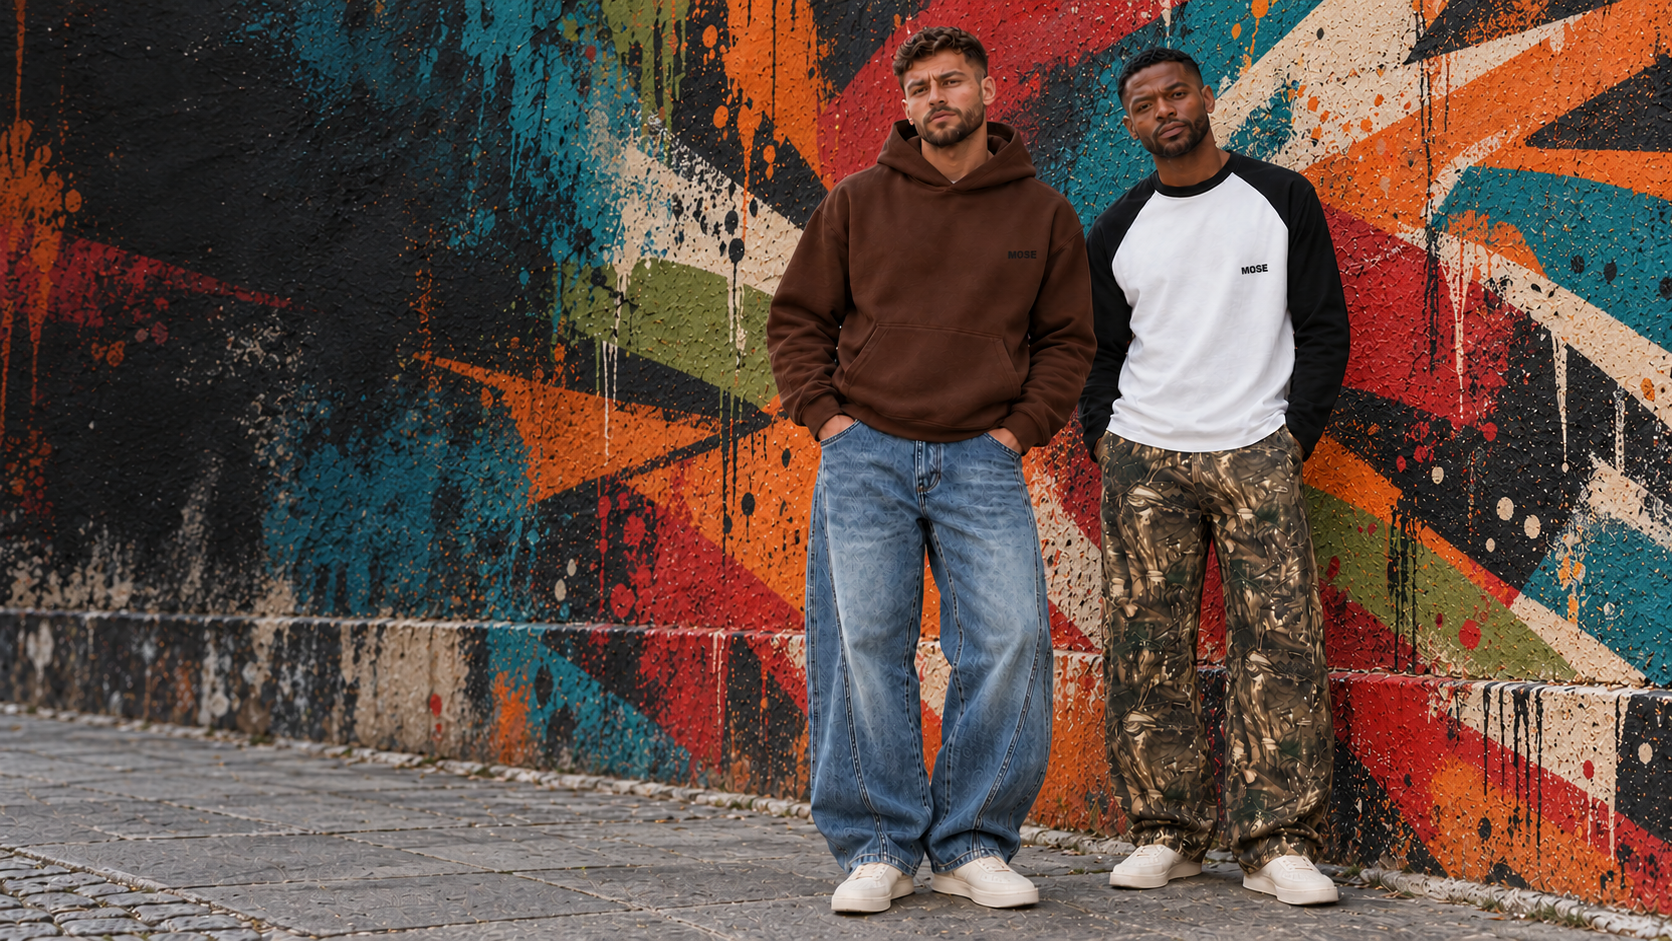
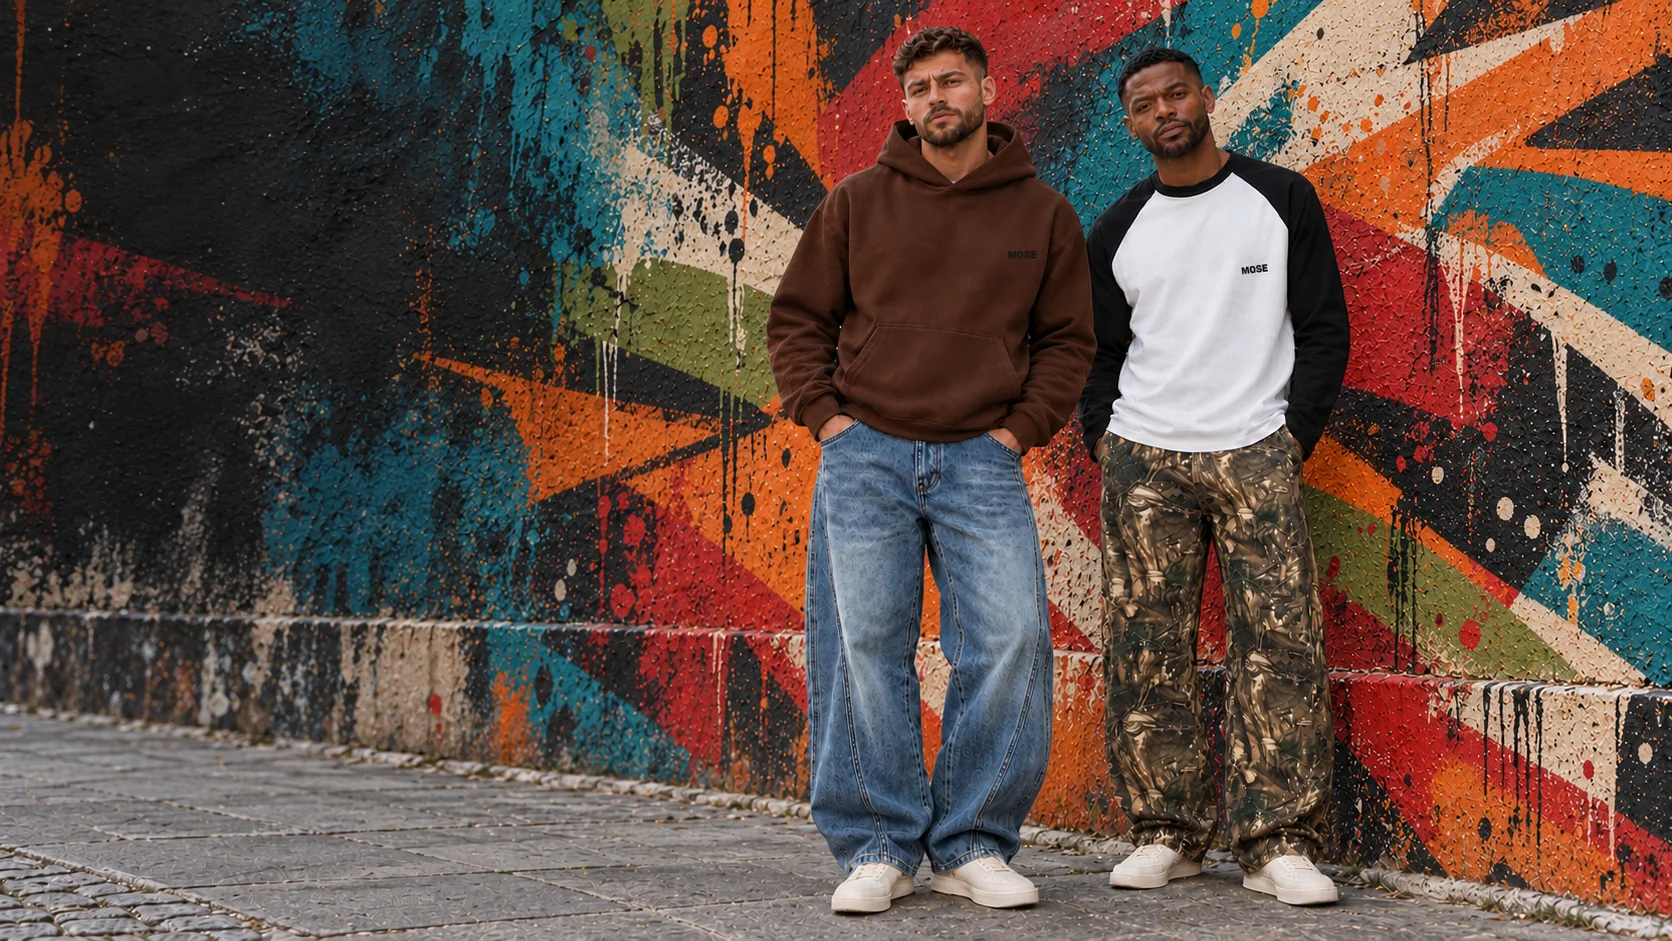
Keep mobile hero actions visible and defer homepage chat (#48)
* Fit mobile hero actions and defer chat until after the campaign

* Assert accessible hero action colors in browser checks

Changed region(s): [[0.8708, 0.0, 0.933, 0.0308]]

diff --git a/src/components/HomePageClient.tsx b/src/components/HomePageClient.tsx
@@ -119,8 +119,9 @@ export default function HomePageClient({
     <>
       <div className="min-h-screen bg-white">
       <section
+        data-home-hero
         aria-labelledby="home-hero-title"
-        className="relative isolate flex min-h-[620px] max-h-[900px] w-full overflow-hidden bg-black lg:min-h-[560px] lg:max-h-[820px]"
+        className="relative isolate flex min-h-[440px] max-h-[760px] w-full overflow-hidden bg-black lg:min-h-[560px] lg:max-h-[820px]"
         style={{ height: 'calc(100svh - var(--announcement-banner-height, 0px) - var(--header-total-height, 0px))' }}
       >
         <picture>
@@ -140,24 +141,24 @@ export default function HomePageClient({
         </picture>
         <div aria-hidden="true" className="pointer-events-none absolute inset-0 bg-[linear-gradient(to_top,rgba(0,0,0,0.96)_0%,rgba(0,0,0,0.78)_20%,rgba(0,0,0,0.20)_43%,transparent_58%)] lg:hidden" />
         <div aria-hidden="true" className="pointer-events-none absolute inset-0 hidden bg-[linear-gradient(to_right,rgba(0,0,0,0.76)_0%,rgba(0,0,0,0.48)_32%,transparent_62%)] lg:block" />
-        <div className="relative z-10 mx-auto flex w-full max-w-[1600px] items-end px-5 pb-7 pt-10 sm:px-8 lg:items-center lg:px-10 lg:py-12 xl:px-16">
-          <div className="max-w-lg text-left lg:w-[44%] lg:max-w-[640px]">
-            <p className="mb-3 text-[10px] font-bold uppercase tracking-[0.18em] text-white sm:text-xs lg:mb-5">
+        <div className="relative z-10 mx-auto flex w-full max-w-[1600px] items-end px-4 pb-5 pt-8 sm:px-8 lg:items-center lg:px-10 lg:py-12 xl:px-16">
+          <div className="w-full max-w-lg text-left lg:w-[44%] lg:max-w-[640px]">
+            <p className="mb-2 text-[9px] font-bold uppercase tracking-[0.16em] text-white sm:text-xs lg:mb-5">
               {homepageSettings?.hero_badge_text || t('hero.badge')}
             </p>
-            <h1 id="home-hero-title" className="mb-3 font-display text-[38px] leading-[1.02] tracking-tight text-white sm:text-5xl lg:mb-5 lg:text-[clamp(40px,5.2vw,84px)]">
+            <h1 id="home-hero-title" className="mb-3 font-display text-[clamp(30px,8.5vw,44px)] leading-[1.02] tracking-tight text-white sm:text-5xl lg:mb-5 lg:text-[clamp(40px,5.2vw,84px)]">
               {homepageSettings?.hero_title_line1 || t('hero.title1')}
               <br />
               <span className="text-brand-primary">{homepageSettings?.hero_title_line2 || t('hero.title2')}</span>
             </h1>
-            <p className="mb-5 max-w-[38ch] text-sm font-medium leading-relaxed text-white lg:mb-7 lg:max-w-[34ch] lg:text-base xl:text-lg">
+            <p className="mb-4 max-w-[38ch] text-[13px] font-medium leading-relaxed text-white lg:mb-7 lg:max-w-[34ch] lg:text-base xl:text-lg">
               {homepageSettings?.hero_subtitle || t('hero.subtitle')}
             </p>
-            <div className="flex flex-wrap items-center gap-3">
+            <div data-hero-actions className="grid grid-cols-2 items-stretch gap-2 lg:flex lg:flex-wrap lg:gap-3">
               <LocaleLink
                 href={homepageSettings?.hero_cta1_link || '/shop'}
                 aria-label={t('hero.cta1.aria')}
-                className="inline-flex min-h-12 items-center justify-center gap-3 border-2 border-brand-primary bg-brand-primary px-5 py-3 text-xs font-bold uppercase tracking-[0.12em] text-black transition-colors hover:border-white hover:bg-white focus-visible:outline-2 focus-visible:outline-offset-4 focus-visible:outline-white lg:text-sm"
+                className="inline-flex min-h-12 items-center justify-center gap-2 border-2 border-brand-action bg-brand-action px-2 py-3 text-[10px] font-bold uppercase tracking-[0.08em] text-white transition-colors hover:border-brand-action-hover hover:bg-brand-action-hover focus-visible:outline-2 focus-visible:outline-offset-4 focus-visible:outline-white sm:px-5 sm:text-xs lg:text-sm"
               >
                 {homepageSettings?.hero_cta1_text || t('hero.cta1.text')}
                 <ArrowRight size={18} aria-hidden="true" />
@@ -165,7 +166,7 @@ export default function HomePageClient({
               <LocaleLink
                 href={homepageSettings?.hero_cta2_link || '/lookbook'}
                 aria-label={t('hero.cta2.aria')}
-                className="inline-flex min-h-12 items-center justify-center border-2 border-white px-5 py-3 text-xs font-bold uppercase tracking-[0.12em] text-white transition-colors hover:bg-white hover:text-black focus-visible:outline-2 focus-visible:outline-offset-4 focus-visible:outline-white lg:text-sm"
+                className="inline-flex min-h-12 items-center justify-center border-2 border-white px-2 py-3 text-center text-[10px] font-bold uppercase tracking-[0.08em] text-white transition-colors hover:bg-white hover:text-black focus-visible:outline-2 focus-visible:outline-offset-4 focus-visible:outline-white sm:px-5 sm:text-xs lg:text-sm"
               >
                 {homepageSettings?.hero_cta2_text || t('hero.cta2.text')}
               </LocaleLink>

diff --git a/src/components/chat/ChatButton.tsx b/src/components/chat/ChatButton.tsx
@@ -4,7 +4,7 @@ import { useState, useEffect, useRef, useCallback } from 'react'
 import { X, MessageCircle } from 'lucide-react'
 import { AnimatePresence, motion, useReducedMotion } from 'framer-motion'
 import { usePathname } from 'next/navigation'
-import { useTranslations } from 'next-intl'
+import { useLocale, useTranslations } from 'next-intl'
 import ChatWindow from './ChatWindow'
 import { trackEvent } from '@/lib/analytics'
 
@@ -25,6 +25,7 @@ const TIP_AAN = false
 
 export default function ChatButton() {
   const t = useTranslations('chat')
+  const locale = useLocale()
   const pathname = usePathname()
   const verminderdeBeweging = useReducedMotion()
 
@@ -39,6 +40,21 @@ export default function ChatButton() {
 
   const opProductpagina = Boolean(pathname?.includes('/product/'))
   const opHomepage = pathname === '/nl' || pathname === '/en' || pathname === '/nl/' || pathname === '/en/' || pathname === '/'
+  const [heroPassed, setHeroPassed] = useState(false)
+
+  // Keep the campaign and its actions unobstructed. Re-hide when returning to
+  // the top; an already opened conversation remains usable while scrolling.
+  useEffect(() => {
+    setHeroPassed(false)
+    if (!opHomepage) return
+    const hero = document.querySelector('[data-home-hero]')
+    if (!hero) return
+    const observer = new IntersectionObserver(([entry]) => {
+      setHeroPassed(!entry.isIntersecting && entry.boundingClientRect.bottom <= 0)
+    }, { threshold: 0 })
+    observer.observe(hero)
+    return () => observer.disconnect()
+  }, [opHomepage, pathname])
 
   // Eén MutationObserver voor alle drawer-detecties: één DOM-traversal
   // per mutatie i.p.v. drie aparte observers. Een gewijzigd attribute
@@ -199,7 +215,7 @@ export default function ChatButton() {
   // Verberg de knop wanneer een schermvullende laag open staat (filterlade,
   // winkelmandlade of mobiel menu). De knop heeft z-[9999] en zou er anders
   // doorheen prikken.
-  const shouldHideButton = isFilterDrawerOpen || isCartDrawerOpen || isMobileMenuOpen
+  const shouldHideButton = isFilterDrawerOpen || isCartDrawerOpen || isMobileMenuOpen || (opHomepage && !heroPassed && !isOpen)
 
   const handleToggle = () => {
     const wasOpen = isOpen
@@ -241,7 +257,7 @@ export default function ChatButton() {
     <>
       {!shouldHideButton && (
         <div
-          className={`chat-floating fixed right-4 z-[9999] flex flex-col items-end gap-2 md:right-6 ${opHomepage ? 'chat-floating-home' : ''}`}
+          className="chat-floating fixed right-4 z-[9999] flex flex-col items-end gap-2 md:right-6"
           style={{ bottom: onderMarge }}
         >
           {/* De tip, boven de knop. */}
@@ -328,7 +344,7 @@ export default function ChatButton() {
 
       {/* Chat Window */}
       <AnimatePresence>
-        {isOpen && <ChatWindow onClose={handleClose} />}
+        {isOpen && <ChatWindow key={locale} onClose={handleClose} />}
       </AnimatePresence>
 
       {/* De witte ring en de zweefschaduw staan altijd, de halo alleen zolang
@@ -343,16 +359,6 @@ export default function ChatButton() {
             0 0 0 2px #ffffff,
             0 14px 32px rgba(0, 0, 0, 0.26),
             0 4px 10px rgba(0, 0, 0, 0.14);
-        }
-
-        /* Keep the launcher clear of the two primary hero actions on mobile. */
-        .chat-floating-home {
-          bottom: calc(6.5rem + max(var(--cookie-consent-height, 0px), var(--chat-underbar-height, 0px))) !important;
-        }
-        @media (min-width: 768px) {
-          .chat-floating-home {
-            bottom: calc(1.5rem + max(var(--cookie-consent-height, 0px), var(--chat-underbar-height, 0px))) !important;
-          }
         }
 
         @keyframes chat-halo {

diff --git a/e2e/home-hero.spec.ts b/e2e/home-hero.spec.ts
@@ -1,0 +1,48 @@
+import { test, expect } from '@playwright/test'
+
+test.beforeEach(async ({ page }) => {
+  await page.addInitScript(() => localStorage.setItem('mose_cookie_consent', 'necessary'))
+  // UI tests never persist support conversations to the live database.
+  await page.route('**/api/chat/save-message', route => route.fulfill({ json: { success: true, conversationId: 'ui-test' } }))
+})
+
+for (const [width, height] of [[320, 568], [375, 600], [390, 664], [430, 760], [768, 1024], [1440, 900]]) {
+  for (const locale of ['nl', 'en']) {
+    test(`${locale} hero fits ${width}x${height} and chat follows scrolling`, async ({ page }) => {
+      await page.setViewportSize({ width, height })
+      await page.goto(`/${locale}`)
+      const hero = page.locator('[data-home-hero]')
+      await expect(hero).toBeVisible()
+      const actions = page.locator('[data-hero-actions] a')
+      await expect(actions).toHaveCount(2)
+      await expect(actions.first()).toHaveCSS('background-color', 'rgb(0, 122, 86)')
+      await expect(actions.first()).toHaveCSS('color', 'rgb(255, 255, 255)')
+      for (const action of await actions.all()) {
+        const box = await action.boundingBox()
+        expect(box).not.toBeNull()
+        expect(box!.x).toBeGreaterThanOrEqual(0)
+        expect(box!.x + box!.width).toBeLessThanOrEqual(width)
+        expect(box!.y + box!.height).toBeLessThanOrEqual(height)
+        expect(box!.height).toBeGreaterThanOrEqual(44)
+      }
+      expect(await page.evaluate(() => document.documentElement.scrollWidth)).toBe(width)
+      await expect(page.locator('.chat-floating')).toHaveCount(0)
+      await page.screenshot({ path: `../../outputs/home-hero-${locale}-${width}.png` })
+      await hero.evaluate(el => window.scrollTo({ top: el.getBoundingClientRect().bottom + window.scrollY + 16, behavior: 'instant' }))
+      await expect(page.locator('.chat-floating')).toBeVisible()
+      await page.evaluate(() => window.scrollTo({ top: 0, behavior: 'instant' }))
+      await expect(page.locator('.chat-floating')).toHaveCount(0)
+    })
+  }
+}
+
+test('an English chat never restores the legacy Dutch greeting', async ({ page }) => {
+  await page.addInitScript(() => sessionStorage.setItem('mose_chat_thread', JSON.stringify({
+    conversationId: 'old', messages: [{ id: '1', role: 'assistant', content: 'Hoi! Waar kan ik je mee helpen?', ts: new Date().toISOString() }],
+  })))
+  await page.goto('/en')
+  await page.locator('[data-home-hero]').evaluate(el => window.scrollTo(0, el.getBoundingClientRect().bottom + window.scrollY + 16))
+  await page.locator('.chat-knop').click()
+  await expect(page.locator('#chat-window')).not.toContainText('Hoi! Waar kan ik je mee helpen?')
+  await expect(page.locator('#chat-window')).toContainText('Hi!')
+})

diff --git a/src/components/chat/ChatWindow.tsx b/src/components/chat/ChatWindow.tsx
@@ -46,10 +46,10 @@ type BewaardeDraad = { conversationId: string | null; messages: BewaardBericht[]
  * op het moment waarop het misgaat: iemand sluit de chat om zijn ordernummer op
  * te zoeken, komt terug, en moet zijn hele vraag opnieuw typen.
  */
-function leesDraad(): BewaardeDraad | null {
+function leesDraad(locale: string): BewaardeDraad | null {
   if (typeof window === 'undefined') return null
   try {
-    const rauw = sessionStorage.getItem(THREAD_KEY)
+    const rauw = sessionStorage.getItem(`${THREAD_KEY}_${locale}`)
     if (!rauw) return null
     const draad = JSON.parse(rauw) as BewaardeDraad
     if (!Array.isArray(draad.messages) || draad.messages.length === 0) return null
@@ -67,6 +67,7 @@ function isMobielScherm(): boolean {
 
 export default function ChatWindow({ onClose }: ChatWindowProps) {
   const t = useTranslations('chat')
+  const locale = useLocale()
   const [weergave, setWeergave] = useState<'gesprek' | 'contact'>('gesprek')
   const portalEl = typeof document !== 'undefined' ? document.body : null
   const panelRef = useRef<HTMLDivElement>(null)
@@ -93,7 +94,7 @@ export default function ChatWindow({ onClose }: ChatWindowProps) {
   })
   const updateKeyboardOffsetRef = useRef<() => void>(() => {})
 
-  const hersteld = useRef<BewaardeDraad | null>(leesDraad())
+  const hersteld = useRef<BewaardeDraad | null>(leesDraad(locale))
   const [messages, setMessages] = useState<Message[]>(() => {
     const draad = hersteld.current
     if (draad) {
@@ -107,7 +108,6 @@ export default function ChatWindow({ onClose }: ChatWindowProps) {
     return [{ id: '1', role: 'assistant', content: t('greeting'), timestamp: new Date() }]
   })
   const [isLoading, setIsLoading] = useState(false)
-  const locale = useLocale()
   const pathname = usePathname()
   const conversationIdRef = useRef<string | null>(hersteld.current?.conversationId ?? null)
   const sessionIdRef = useRef<string>(getSessionId())
@@ -124,12 +124,12 @@ export default function ChatWindow({ onClose }: ChatWindowProps) {
           .filter((m) => !m.isTyping)
           .map((m) => ({ id: m.id, role: m.role, content: m.content, ts: m.timestamp.toISOString() })),
       }
-      sessionStorage.setItem(THREAD_KEY, JSON.stringify(draad))
+      sessionStorage.setItem(`${THREAD_KEY}_${locale}`, JSON.stringify(draad))
     } catch {
       // Opslag vol of geblokkeerd: de chat werkt verder gewoon, alleen zonder
       // geheugen. Geen reden om het gesprek te laten klappen.
     }
-  }, [messages])
+  }, [messages, locale])
 
   // Get context for AI
   const getContext = () => {

diff --git a/src/components/shopify/ShopifyCheckoutHandoff.tsx b/src/components/shopify/ShopifyCheckoutHandoff.tsx
@@ -230,7 +230,7 @@ export function ShopifyCheckoutHandoff() {
           {hasGiftCards && <p className="mb-4 text-sm leading-relaxed text-gray-700">{text.giftInfo}</p>}
           {error && <p role="alert" className="mb-4 border-l-2 border-red-700 pl-3 text-sm leading-relaxed text-red-800">{error}{error === text.review && <> <Link href="/contact" className="underline underline-offset-4">{text.contact}</Link></>}</p>}
           <Button fullWidth isLoading={busy} loadingLabel={text.loading} onClick={proceed}
-            className="text-black hover:text-black focus-visible:ring-black">
+            className="focus-visible:ring-black">
             <Lock size={17} aria-hidden="true" />{text.button}
           </Button>
           <p aria-live="polite" className="mt-3 text-center text-xs text-gray-600">{busy ? text.loading : text.preserved}</p>

diff --git a/src/app/[locale]/early-access/EarlyAccessClient.tsx b/src/app/[locale]/early-access/EarlyAccessClient.tsx
@@ -129,7 +129,7 @@ export default function EarlyAccessClient() {
                   <button
                     type="submit"
                     disabled={isSubmitting}
-                    className="w-full sm:w-auto px-8 py-4 bg-brand-primary hover:bg-brand-primary-hover text-black font-bold uppercase tracking-wider transition-colors disabled:opacity-50 disabled:cursor-not-allowed whitespace-nowrap"
+                    className="w-full sm:w-auto px-8 py-4 bg-brand-action hover:bg-brand-action-hover text-white font-bold uppercase tracking-wider transition-colors disabled:opacity-50 disabled:cursor-not-allowed whitespace-nowrap"
                   >
                     {isSubmitting ? t('form.submitting') : t('form.button')}
                   </button>

diff --git a/src/components/ui/Button.tsx b/src/components/ui/Button.tsx
@@ -25,7 +25,7 @@ export const buttonVariants = cva(
     variants: {
       variant: {
         primary:
-          'bg-brand-primary text-white border-2 border-brand-primary hover:bg-brand-primary-hover hover:border-brand-primary-hover',
+          'bg-brand-action text-white border-2 border-brand-action hover:bg-brand-action-hover hover:border-brand-action-hover',
         secondary: 'bg-black text-white border-2 border-black hover:bg-gray-800 hover:border-gray-800',
         outline: 'border-2 border-black bg-transparent text-black hover:bg-black hover:text-white',
         ghost: 'bg-transparent text-black border-2 border-transparent hover:bg-gray-100',

diff --git a/tailwind.config.ts b/tailwind.config.ts
@@ -22,6 +22,9 @@ const config: Config = {
         foreground: "var(--foreground)",
         'brand-primary': '#00A676',
         'brand-primary-hover': '#008f66',
+        // Action variant: white text meets WCAG AA at normal text sizes.
+        'brand-action': '#007A56',
+        'brand-action-hover': '#006747',
         // Lichte merktint voor geselecteerde en hover-vlakken. Werd al op vijf
         // plekken in de retourflow als `bg-brand-light` gebruikt, maar stond
         // niet in de config, dus Tailwind genereerde de klasse nooit en een
